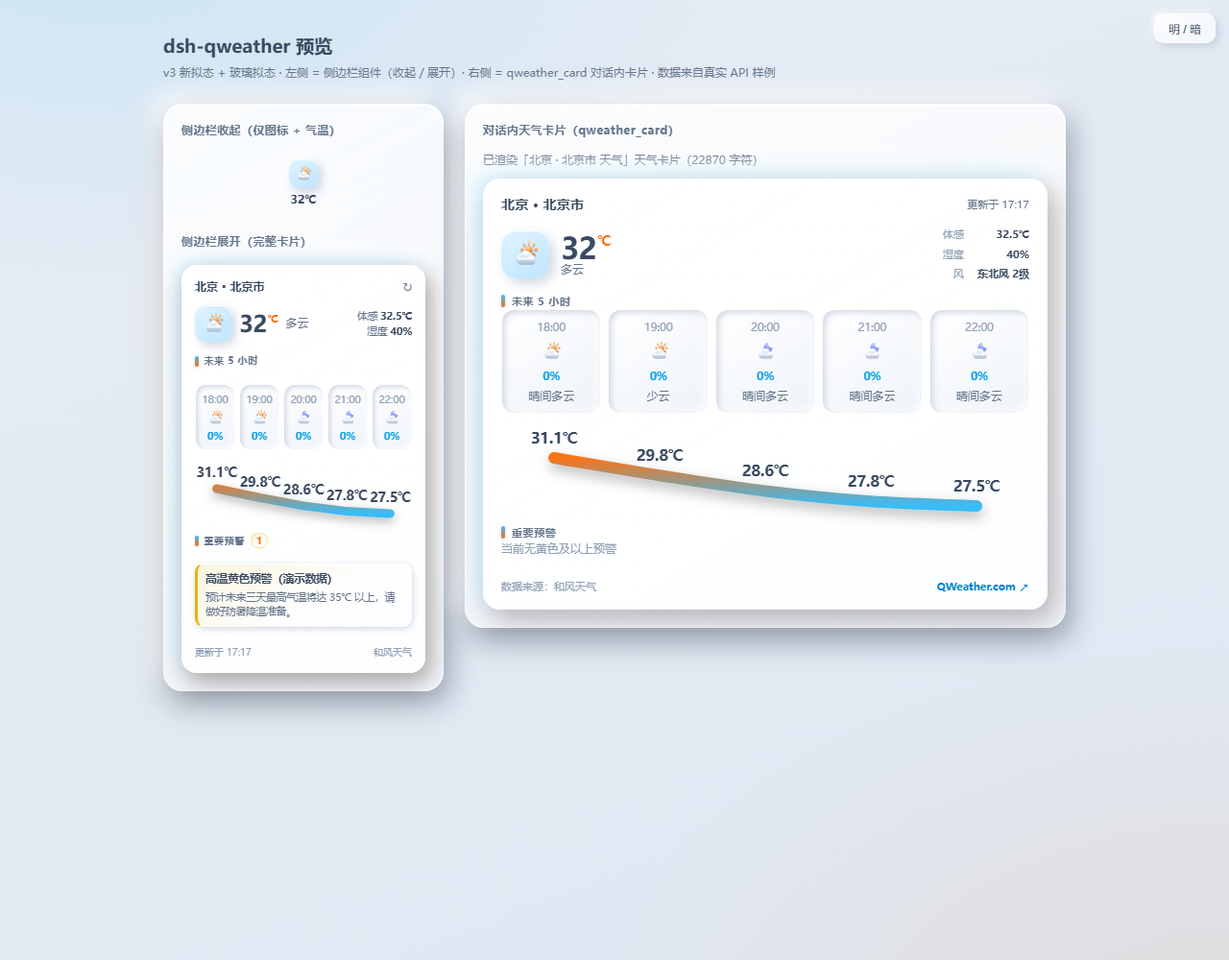
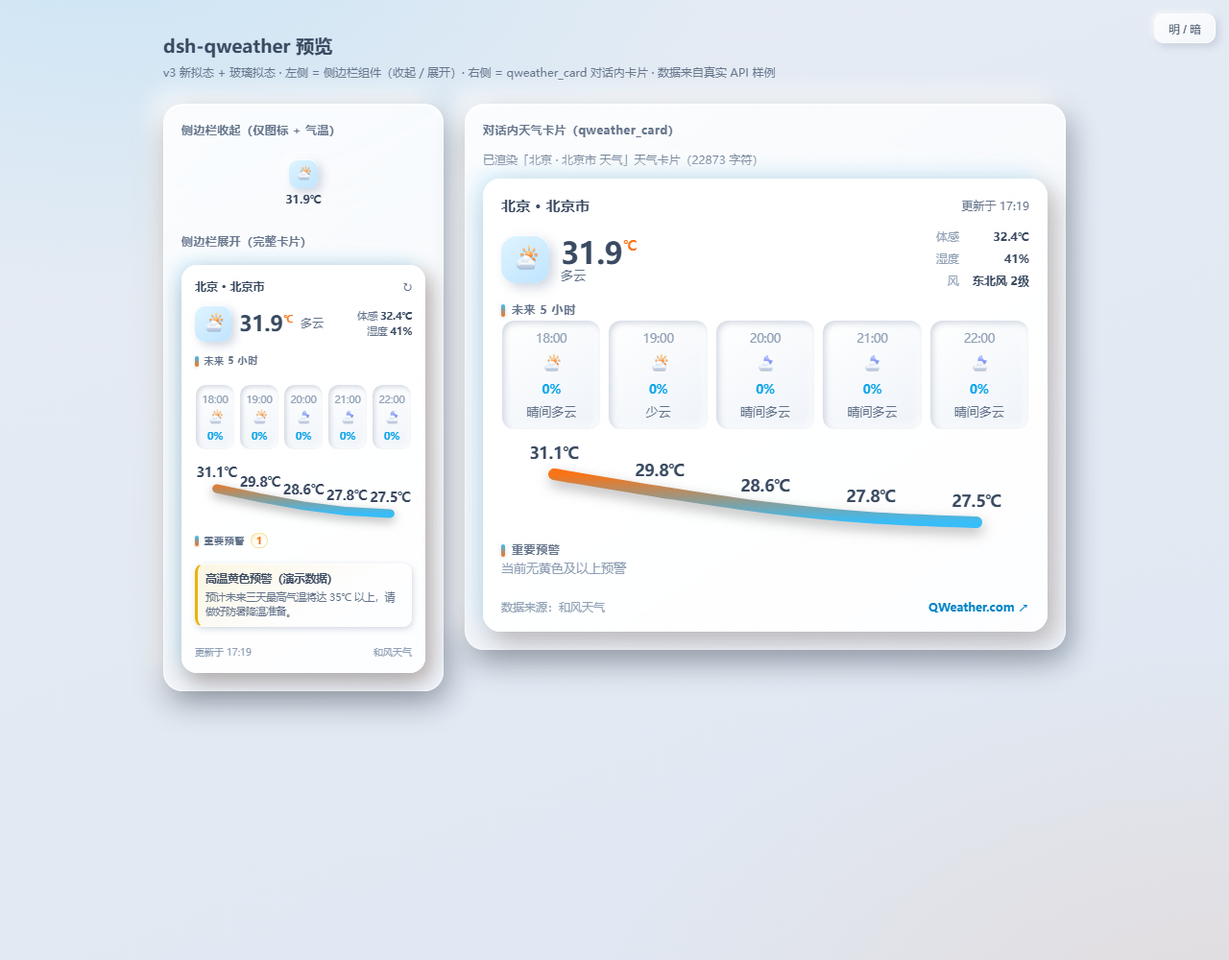
style: enlarge conversation card fonts; sidebar big temp -2px

diff --git a/preview.html b/preview.html
@@ -72,8 +72,8 @@ h1 { font-size:19px; margin:0 0 4px }
 .now .tile { flex:none; display:flex; align-items:center; justify-content:center; width:38px; height:38px; border-radius:11px;
   background:linear-gradient(145deg,var(--tile-a),var(--tile-b));
   box-shadow:4px 4px 10px var(--sh-dark),-3px -3px 8px var(--sh-light),inset 0 1px 0 var(--hi) }
-.now .t { display:flex; align-items:flex-start; gap:1px; font-size:24px; font-weight:800; letter-spacing:-.4px; line-height:1 }
-.now .t .deg { font-size:11px; color:var(--orange); margin-top:1.5px }
+.now .t { display:flex; align-items:flex-start; gap:1px; font-size:22px; font-weight:800; letter-spacing:-.4px; line-height:1 }
+.now .t .deg { font-size:10px; color:var(--orange); margin-top:1.5px }
 .now .meta { margin-left:auto; display:flex; flex-direction:column; gap:2px; color:var(--mut); font-size:10.5px; text-align:right; line-height:1.4 }
 .now .meta b { color:var(--text); font-weight:700 }
 .hours { display:grid; grid-template-columns:repeat(5,1fr); gap:4px }
@@ -118,16 +118,16 @@ body.light { --tile-a:#e0f4ff; --tile-b:#bfe4ff }
       <h2>侧边栏收起（仅图标 + 气温）</h2>
       <div class="rail">
         <span class="tile"><svg viewBox="0 0 24 24" width="18" height="18" aria-hidden="true"><defs><linearGradient id="qw-ic-pv-rail" x1="0" y1="0" x2="0" y2="1"><stop offset="0%" style="stop-color:#ffffff"/><stop offset="100%" style="stop-color:#c7d6ea"/></linearGradient></defs><g transform="translate(0,1.35)" opacity=".20"><defs><linearGradient id="qw-ic-pwpv-rail" x1="0" y1="0" x2="0" y2="1"><stop offset="0%" style="stop-color:#ffd08a"/><stop offset="100%" style="stop-color:#f97316"/></linearGradient></defs><g transform="translate(15.2,7.8) scale(0.68) translate(-12,-12)" stroke="#0b1220" data-u="pwpv-rail)" stroke-width="2.3" stroke-linecap="round"><path d="M12 2.4v2.4M12 19.2v2.4M2.4 12h2.4M19.2 12h2.4M5.2 5.2l1.7 1.7M17.1 17.1l1.7 1.7M18.8 5.2l-1.7 1.7M6.9 17.1l-1.7 1.7"/></g><circle cx="15.2" cy="7.8" r="3.06" fill="#0b1220" data-u="pwpv-rail)"/><circle cx="14.383999999999999" cy="6.984" r="1.2240000000000002" fill="#ffffff" opacity=".4"/><g transform="translate(-0.6,0.6)"><circle cx="9" cy="14.8" r="3.5" fill="#0b1220" data-u="pv-rail)"/><circle cx="13.4" cy="12.4" r="4.3" fill="#0b1220" data-u="pv-rail)"/><circle cx="17.8" cy="15.2" r="3" fill="#0b1220" data-u="pv-rail)"/><rect x="6.9" y="14.2" width="13.6" height="4.6" rx="2.3" fill="#0b1220" data-u="pv-rail)"/><rect x="6.9" y="16" width="13.6" height="2.8" rx="1.4" fill="#7d95b8" opacity=".28"/></g><circle cx="12.6" cy="11" r="1.4" fill="#ffffff" opacity=".65"/></g><defs><linearGradient id="qw-ic-pwpv-rail" x1="0" y1="0" x2="0" y2="1"><stop offset="0%" style="stop-color:#ffd08a"/><stop offset="100%" style="stop-color:#f97316"/></linearGradient></defs><g transform="translate(15.2,7.8) scale(0.68) translate(-12,-12)" stroke="url(#qw-ic-pwpv-rail)" stroke-width="2.3" stroke-linecap="round"><path d="M12 2.4v2.4M12 19.2v2.4M2.4 12h2.4M19.2 12h2.4M5.2 5.2l1.7 1.7M17.1 17.1l1.7 1.7M18.8 5.2l-1.7 1.7M6.9 17.1l-1.7 1.7"/></g><circle cx="15.2" cy="7.8" r="3.06" fill="url(#qw-ic-pwpv-rail)"/><circle cx="14.383999999999999" cy="6.984" r="1.2240000000000002" fill="#ffffff" opacity=".4"/><g transform="translate(-0.6,0.6)"><circle cx="9" cy="14.8" r="3.5" fill="url(#qw-ic-pv-rail)"/><circle cx="13.4" cy="12.4" r="4.3" fill="url(#qw-ic-pv-rail)"/><circle cx="17.8" cy="15.2" r="3" fill="url(#qw-ic-pv-rail)"/><rect x="6.9" y="14.2" width="13.6" height="4.6" rx="2.3" fill="url(#qw-ic-pv-rail)"/><rect x="6.9" y="16" width="13.6" height="2.8" rx="1.4" fill="#7d95b8" opacity=".28"/></g><circle cx="12.6" cy="11" r="1.4" fill="#ffffff" opacity=".65"/></svg></span>
-        <span class="r-temp num">32℃</span>
+        <span class="r-temp num">31.9℃</span>
       </div>
       <h2 style="margin-top:18px">侧边栏展开（完整卡片）</h2>
       <div class="card">
         <div class="head"><span>北京 · 北京市</span><span style="color:var(--mut);font-weight:400">↻</span></div>
         <div class="now">
           <span class="tile"><svg viewBox="0 0 24 24" width="24" height="24" aria-hidden="true"><defs><linearGradient id="qw-ic-pv-now" x1="0" y1="0" x2="0" y2="1"><stop offset="0%" style="stop-color:#ffffff"/><stop offset="100%" style="stop-color:#c7d6ea"/></linearGradient></defs><g transform="translate(0,1.35)" opacity=".20"><defs><linearGradient id="qw-ic-pwpv-now" x1="0" y1="0" x2="0" y2="1"><stop offset="0%" style="stop-color:#ffd08a"/><stop offset="100%" style="stop-color:#f97316"/></linearGradient></defs><g transform="translate(15.2,7.8) scale(0.68) translate(-12,-12)" stroke="#0b1220" data-u="pwpv-now)" stroke-width="2.3" stroke-linecap="round"><path d="M12 2.4v2.4M12 19.2v2.4M2.4 12h2.4M19.2 12h2.4M5.2 5.2l1.7 1.7M17.1 17.1l1.7 1.7M18.8 5.2l-1.7 1.7M6.9 17.1l-1.7 1.7"/></g><circle cx="15.2" cy="7.8" r="3.06" fill="#0b1220" data-u="pwpv-now)"/><circle cx="14.383999999999999" cy="6.984" r="1.2240000000000002" fill="#ffffff" opacity=".4"/><g transform="translate(-0.6,0.6)"><circle cx="9" cy="14.8" r="3.5" fill="#0b1220" data-u="pv-now)"/><circle cx="13.4" cy="12.4" r="4.3" fill="#0b1220" data-u="pv-now)"/><circle cx="17.8" cy="15.2" r="3" fill="#0b1220" data-u="pv-now)"/><rect x="6.9" y="14.2" width="13.6" height="4.6" rx="2.3" fill="#0b1220" data-u="pv-now)"/><rect x="6.9" y="16" width="13.6" height="2.8" rx="1.4" fill="#7d95b8" opacity=".28"/></g><circle cx="12.6" cy="11" r="1.4" fill="#ffffff" opacity=".65"/></g><defs><linearGradient id="qw-ic-pwpv-now" x1="0" y1="0" x2="0" y2="1"><stop offset="0%" style="stop-color:#ffd08a"/><stop offset="100%" style="stop-color:#f97316"/></linearGradient></defs><g transform="translate(15.2,7.8) scale(0.68) translate(-12,-12)" stroke="url(#qw-ic-pwpv-now)" stroke-width="2.3" stroke-linecap="round"><path d="M12 2.4v2.4M12 19.2v2.4M2.4 12h2.4M19.2 12h2.4M5.2 5.2l1.7 1.7M17.1 17.1l1.7 1.7M18.8 5.2l-1.7 1.7M6.9 17.1l-1.7 1.7"/></g><circle cx="15.2" cy="7.8" r="3.06" fill="url(#qw-ic-pwpv-now)"/><circle cx="14.383999999999999" cy="6.984" r="1.2240000000000002" fill="#ffffff" opacity=".4"/><g transform="translate(-0.6,0.6)"><circle cx="9" cy="14.8" r="3.5" fill="url(#qw-ic-pv-now)"/><circle cx="13.4" cy="12.4" r="4.3" fill="url(#qw-ic-pv-now)"/><circle cx="17.8" cy="15.2" r="3" fill="url(#qw-ic-pv-now)"/><rect x="6.9" y="14.2" width="13.6" height="4.6" rx="2.3" fill="url(#qw-ic-pv-now)"/><rect x="6.9" y="16" width="13.6" height="2.8" rx="1.4" fill="#7d95b8" opacity=".28"/></g><circle cx="12.6" cy="11" r="1.4" fill="#ffffff" opacity=".65"/></svg></span>
-          <span class="t num"><span>32</span><span class="deg">℃</span></span>
+          <span class="t num"><span>31.9</span><span class="deg">℃</span></span>
           <span class="mut" style="color:var(--mut);font-size:12px">多云</span>
-          <span class="meta"><span>体感 <b class="num">32.5℃</b></span><span>湿度 <b class="num">40%</b></span></span>
+          <span class="meta"><span>体感 <b class="num">32.4℃</b></span><span>湿度 <b class="num">41%</b></span></span>
         </div>
         <div class="sec">未来 5 小时</div>
         <div class="hours">
@@ -159,16 +159,16 @@ body.light { --tile-a:#e0f4ff; --tile-b:#bfe4ff }
         </div>
         <div class="curve" style="height:56px;margin-top:8px"><svg viewBox="0 0 320 56" preserveAspectRatio="none" style="display:block;width:100%;height:56px;filter:drop-shadow(0.8px 4.5px 5.5px var(--line-sh))"><defs><linearGradient id="side-stroke" gradientUnits="userSpaceOnUse" x1="0" y1="14" x2="0" y2="48"><stop offset="0%" stop-color="var(--orange)"/><stop offset="100%" stop-color="var(--sky)"/></linearGradient></defs><polyline points="32.0,22.0 96.0,31.5 160.0,39.9 224.0,45.6 288.0,48.0" style="fill:none;stroke:url(#side-stroke);stroke-width:9;stroke-linejoin:round;stroke-linecap:round;vector-effect:non-scaling-stroke"/></svg><span class="chip" style="left:10%;top:calc(39.3% - 6px)">31.1℃</span><span class="chip" style="left:30%;top:calc(56.2% - 6px)">29.8℃</span><span class="chip" style="left:50%;top:calc(71.3% - 6px)">28.6℃</span><span class="chip" style="left:70%;top:calc(81.4% - 6px)">27.8℃</span><span class="chip" style="left:90%;top:calc(85.7% - 6px)">27.5℃</span></div>
         <div class="sec">重要预警<span class="badge" style="--c:#eab308">1</span></div><div class="alert-box" style="--c:#eab308"><div class="ah">高温黄色预警（演示数据）</div><div class="ab">预计未来三天最高气温将达 35℃ 以上，请做好防暑降温准备。</div></div>
-        <div class="foot"><span>更新于 17:17</span><span>和风天气</span></div>
+        <div class="foot"><span>更新于 17:19</span><span>和风天气</span></div>
       </div>
     </div>
     <div class="panel cardpanel">
       <h2>对话内天气卡片（qweather_card）</h2>
-      <div class="tool">已渲染「北京 · 北京市 天气」天气卡片（22870 字符）</div>
+      <div class="tool">已渲染「北京 · 北京市 天气」天气卡片（22873 字符）</div>
       <div class="qw">
 <style>
 .qw,.qw *{box-sizing:border-box}
-.qw{font:13px/1.5 Inter,ui-sans-serif,system-ui,-apple-system,'Segoe UI','PingFang SC','Microsoft YaHei',sans-serif;-webkit-font-smoothing:antialiased;text-rendering:optimizeLegibility;
+.qw{font:14px/1.55 Inter,ui-sans-serif,system-ui,-apple-system,'Segoe UI','PingFang SC','Microsoft YaHei',sans-serif;-webkit-font-smoothing:antialiased;text-rendering:optimizeLegibility;
   --f:light-dark(#3a4a61,#e8eefb);
   --m:light-dark(#64748b,#9fb0c7);
   --s:light-dark(#8fa0b5,#5f7089);
@@ -196,8 +196,8 @@ body.light { --tile-a:#e0f4ff; --tile-b:#bfe4ff }
     10px 10px 24px var(--sh-dark),-10px -10px 24px var(--sh-light),
     inset 0 1px 0 light-dark(rgba(255,255,255,.9),rgba(255,255,255,.08))}
 .qw-head{display:flex;align-items:center;justify-content:space-between;gap:10px;min-width:0}
-.qw-loc{font-size:14px;font-weight:800;letter-spacing:.2px;white-space:nowrap;overflow:hidden;text-overflow:ellipsis}
-.qw-updated{flex:none;font-size:11px;color:var(--m);font-variant-numeric:tabular-nums}
+.qw-loc{font-size:15px;font-weight:800;letter-spacing:.2px;white-space:nowrap;overflow:hidden;text-overflow:ellipsis}
+.qw-updated{flex:none;font-size:12px;color:var(--m);font-variant-numeric:tabular-nums}
 .qw-now{display:flex;align-items:center;gap:12px}
 .qw-now-icon{flex:none;display:flex;align-items:center;justify-content:center;width:50px;height:50px;border-radius:16px;
   background:linear-gradient(145deg,light-dark(#e0f4ff,#1c2e4e),light-dark(#bfe4ff,#0e1a30));
@@ -206,13 +206,13 @@ body.light { --tile-a:#e0f4ff; --tile-b:#bfe4ff }
 .qw-now-temp{display:flex;align-items:flex-start;gap:1px}
 .qw-now-temp .n{font-size:31px;font-weight:800;letter-spacing:-.5px;font-variant-numeric:tabular-nums}
 .qw-now-temp .deg{font-size:14px;font-weight:800;color:var(--orange);margin-top:2.5px}
-.qw-now-text{font-size:12px;color:var(--m)}
-.qw-now-meta{margin-left:auto;display:grid;grid-template-columns:auto auto;column-gap:14px;row-gap:4px;font-size:11px;text-align:right}
+.qw-now-text{font-size:13px;color:var(--m)}
+.qw-now-meta{margin-left:auto;display:grid;grid-template-columns:auto auto;column-gap:14px;row-gap:4px;font-size:12px;text-align:right}
 .qw-now-meta .k{color:var(--s)}
 .qw-now-meta .v{color:var(--f);font-weight:700;font-variant-numeric:tabular-nums}
-.qw-sec-title{display:flex;align-items:center;gap:7px;font-size:11px;font-weight:700;letter-spacing:.6px;color:var(--m)}
+.qw-sec-title{display:flex;align-items:center;gap:7px;font-size:12px;font-weight:700;letter-spacing:.6px;color:var(--m)}
 .qw-sec-title::before{content:'';flex:none;width:4px;height:13px;border-radius:2px;background:linear-gradient(180deg,var(--sky),var(--orange));box-shadow:0 1px 4px light-dark(rgba(148,163,184,.45),rgba(0,0,0,.45))}
-.qw-badge{display:inline-flex;align-items:center;justify-content:center;min-width:19px;height:19px;padding:0 6px;border-radius:10px;color:var(--orange);font-size:10.5px;font-weight:800;font-variant-numeric:tabular-nums;
+.qw-badge{display:inline-flex;align-items:center;justify-content:center;min-width:20px;height:20px;padding:0 6px;border-radius:10px;color:var(--orange);font-size:11.5px;font-weight:800;font-variant-numeric:tabular-nums;
   background:linear-gradient(150deg,color-mix(in srgb,var(--bc,#f97316) 16%,transparent),transparent 70%);
   border:1px solid color-mix(in srgb,var(--bc,#f97316) 35%,transparent);
   box-shadow:inset 0 1px 0 light-dark(rgba(255,255,255,.7),rgba(255,255,255,.08))}
@@ -220,37 +220,37 @@ body.light { --tile-a:#e0f4ff; --tile-b:#bfe4ff }
 .qw-hr{display:flex;flex-direction:column;align-items:center;gap:3px;padding:9px 2px 8px;border-radius:13px;border:1px solid var(--bd);
   background:linear-gradient(145deg,var(--cell-a),var(--cell-b));
   box-shadow:inset 2.5px 2.5px 6px var(--sh-dark),inset -2.5px -2.5px 6px var(--sh-light)}
-.qw-hr-time{font-size:11.5px;color:var(--s);font-variant-numeric:tabular-nums}
+.qw-hr-time{font-size:12.5px;color:var(--s);font-variant-numeric:tabular-nums}
 .qw-hr-icon{display:flex;align-items:center;justify-content:center;height:28px}
-.qw-hr-pop{font-size:11.5px;color:var(--pop);font-weight:600;font-variant-numeric:tabular-nums}
-.qw-hr-text{font-size:12px;color:var(--m);max-width:100%;overflow:hidden;text-overflow:ellipsis;white-space:nowrap}
+.qw-hr-pop{font-size:12.5px;color:var(--pop);font-weight:600;font-variant-numeric:tabular-nums}
+.qw-hr-text{font-size:13px;color:var(--m);max-width:100%;overflow:hidden;text-overflow:ellipsis;white-space:nowrap}
 .qw-chart{position:relative;height:92px;margin-top:12px}
 /* 曲线投影：与图标小卡片同款的下投影（带模糊渐隐），无高光、无复制曲线 */
 .qw-chart-svg{display:block;width:100%;height:92px;filter:drop-shadow(1px 6px 7px light-dark(rgba(0,0,0,.28),rgba(0,0,0,.5)))}
 .qw-chart-line{fill:none;stroke-width:12;stroke-linecap:round;stroke-linejoin:round;vector-effect:non-scaling-stroke}
-.qw-chart-chip{position:absolute;transform:translate(-50%,-100%);font-size:15.5px;font-weight:700;color:var(--f);font-variant-numeric:tabular-nums;white-space:nowrap;text-shadow:0 1px 0 light-dark(rgba(255,255,255,.6),rgba(0,0,0,.35))}
+.qw-chart-chip{position:absolute;transform:translate(-50%,-100%);font-size:16.5px;font-weight:700;color:var(--f);font-variant-numeric:tabular-nums;white-space:nowrap;text-shadow:0 1px 0 light-dark(rgba(255,255,255,.6),rgba(0,0,0,.35))}
 .qw-alert{display:flex;flex-direction:column;gap:3px;padding:9px 12px;border-radius:12px;border:1px solid var(--bd);border-left:3px solid var(--alert-c,#f59e0b);
   background:linear-gradient(150deg,color-mix(in srgb,var(--alert-c,#f59e0b) 12%,transparent),transparent 60%);
   box-shadow:2px 3px 8px var(--sh-dark),inset 0 1px 0 light-dark(rgba(255,255,255,.75),rgba(255,255,255,.06))}
-.qw-alert-head{font-size:12.5px;font-weight:700;color:var(--f)}
-.qw-alert-body{font-size:11.5px;color:var(--m);line-height:1.55}
-.qw-empty{font-size:12px;color:var(--s)}
-.qw-foot{display:flex;align-items:center;justify-content:space-between;gap:10px;padding-top:9px;border-top:1px dashed var(--bd);font-size:11px;color:var(--s)}
+.qw-alert-head{font-size:13.5px;font-weight:700;color:var(--f)}
+.qw-alert-body{font-size:12.5px;color:var(--m);line-height:1.55}
+.qw-empty{font-size:13px;color:var(--s)}
+.qw-foot{display:flex;align-items:center;justify-content:space-between;gap:10px;padding-top:9px;border-top:1px dashed var(--bd);font-size:12px;color:var(--s)}
 .qw-foot a{color:var(--sky-deep);text-decoration:none;font-weight:700}
 .qw-foot a:hover{color:var(--orange);text-decoration:underline}
 </style>
 <div class="qw-card">
 <div class="qw-head">
 <span class="qw-loc" title="北京 · 北京市">北京 · 北京市</span>
-<span class="qw-updated">更新于 17:17</span>
+<span class="qw-updated">更新于 17:19</span>
 </div>
 <div class="qw-now">
 <span class="qw-now-icon"><svg viewBox="0 0 24 24" width="30" height="30" aria-hidden="true"><defs><linearGradient id="qw-ic-now" x1="0" y1="0" x2="0" y2="1"><stop offset="0%" style="stop-color:#ffffff"/><stop offset="100%" style="stop-color:#c7d6ea"/></linearGradient></defs><g transform="translate(0,1.35)" opacity=".20"><defs><linearGradient id="qw-ic-pwnow" x1="0" y1="0" x2="0" y2="1"><stop offset="0%" style="stop-color:#ffd08a"/><stop offset="100%" style="stop-color:#f97316"/></linearGradient></defs><g transform="translate(15.2,7.8) scale(0.68) translate(-12,-12)" stroke="#0b1220" data-u="pwnow)" stroke-width="2.3" stroke-linecap="round"><path d="M12 2.4v2.4M12 19.2v2.4M2.4 12h2.4M19.2 12h2.4M5.2 5.2l1.7 1.7M17.1 17.1l1.7 1.7M18.8 5.2l-1.7 1.7M6.9 17.1l-1.7 1.7"/></g><circle cx="15.2" cy="7.8" r="3.06" fill="#0b1220" data-u="pwnow)"/><circle cx="14.383999999999999" cy="6.984" r="1.2240000000000002" fill="#ffffff" opacity=".4"/><g transform="translate(-0.6,0.6)"><circle cx="9" cy="14.8" r="3.5" fill="#0b1220" data-u="now)"/><circle cx="13.4" cy="12.4" r="4.3" fill="#0b1220" data-u="now)"/><circle cx="17.8" cy="15.2" r="3" fill="#0b1220" data-u="now)"/><rect x="6.9" y="14.2" width="13.6" height="4.6" rx="2.3" fill="#0b1220" data-u="now)"/><rect x="6.9" y="16" width="13.6" height="2.8" rx="1.4" fill="#7d95b8" opacity=".28"/></g><circle cx="12.6" cy="11" r="1.4" fill="#ffffff" opacity=".65"/></g><defs><linearGradient id="qw-ic-pwnow" x1="0" y1="0" x2="0" y2="1"><stop offset="0%" style="stop-color:#ffd08a"/><stop offset="100%" style="stop-color:#f97316"/></linearGradient></defs><g transform="translate(15.2,7.8) scale(0.68) translate(-12,-12)" stroke="url(#qw-ic-pwnow)" stroke-width="2.3" stroke-linecap="round"><path d="M12 2.4v2.4M12 19.2v2.4M2.4 12h2.4M19.2 12h2.4M5.2 5.2l1.7 1.7M17.1 17.1l1.7 1.7M18.8 5.2l-1.7 1.7M6.9 17.1l-1.7 1.7"/></g><circle cx="15.2" cy="7.8" r="3.06" fill="url(#qw-ic-pwnow)"/><circle cx="14.383999999999999" cy="6.984" r="1.2240000000000002" fill="#ffffff" opacity=".4"/><g transform="translate(-0.6,0.6)"><circle cx="9" cy="14.8" r="3.5" fill="url(#qw-ic-now)"/><circle cx="13.4" cy="12.4" r="4.3" fill="url(#qw-ic-now)"/><circle cx="17.8" cy="15.2" r="3" fill="url(#qw-ic-now)"/><rect x="6.9" y="14.2" width="13.6" height="4.6" rx="2.3" fill="url(#qw-ic-now)"/><rect x="6.9" y="16" width="13.6" height="2.8" rx="1.4" fill="#7d95b8" opacity=".28"/></g><circle cx="12.6" cy="11" r="1.4" fill="#ffffff" opacity=".65"/></svg></span>
 <div class="qw-now-main">
-<span class="qw-now-temp"><span class="n">32</span><span class="deg">℃</span></span>
+<span class="qw-now-temp"><span class="n">31.9</span><span class="deg">℃</span></span>
 <span class="qw-now-text">多云</span>
 </div>
-<div class="qw-now-meta"><span class="k">体感</span><span class="v">32.5℃</span><span class="k">湿度</span><span class="v">40%</span><span class="k">风</span><span class="v">东北风 2级</span></div>
+<div class="qw-now-meta"><span class="k">体感</span><span class="v">32.4℃</span><span class="k">湿度</span><span class="v">41%</span><span class="k">风</span><span class="v">东北风 2级</span></div>
 </div>
 <div>
 <div class="qw-sec-title">未来 5 小时</div>

diff --git a/samples/sample-card.html b/samples/sample-card.html
@@ -1,7 +1,7 @@
 <div class="qw">
 <style>
 .qw,.qw *{box-sizing:border-box}
-.qw{font:13px/1.5 Inter,ui-sans-serif,system-ui,-apple-system,'Segoe UI','PingFang SC','Microsoft YaHei',sans-serif;-webkit-font-smoothing:antialiased;text-rendering:optimizeLegibility;
+.qw{font:14px/1.55 Inter,ui-sans-serif,system-ui,-apple-system,'Segoe UI','PingFang SC','Microsoft YaHei',sans-serif;-webkit-font-smoothing:antialiased;text-rendering:optimizeLegibility;
   --f:light-dark(#3a4a61,#e8eefb);
   --m:light-dark(#64748b,#9fb0c7);
   --s:light-dark(#8fa0b5,#5f7089);
@@ -29,8 +29,8 @@
     10px 10px 24px var(--sh-dark),-10px -10px 24px var(--sh-light),
     inset 0 1px 0 light-dark(rgba(255,255,255,.9),rgba(255,255,255,.08))}
 .qw-head{display:flex;align-items:center;justify-content:space-between;gap:10px;min-width:0}
-.qw-loc{font-size:14px;font-weight:800;letter-spacing:.2px;white-space:nowrap;overflow:hidden;text-overflow:ellipsis}
-.qw-updated{flex:none;font-size:11px;color:var(--m);font-variant-numeric:tabular-nums}
+.qw-loc{font-size:15px;font-weight:800;letter-spacing:.2px;white-space:nowrap;overflow:hidden;text-overflow:ellipsis}
+.qw-updated{flex:none;font-size:12px;color:var(--m);font-variant-numeric:tabular-nums}
 .qw-now{display:flex;align-items:center;gap:12px}
 .qw-now-icon{flex:none;display:flex;align-items:center;justify-content:center;width:50px;height:50px;border-radius:16px;
   background:linear-gradient(145deg,light-dark(#e0f4ff,#1c2e4e),light-dark(#bfe4ff,#0e1a30));
@@ -39,13 +39,13 @@
 .qw-now-temp{display:flex;align-items:flex-start;gap:1px}
 .qw-now-temp .n{font-size:31px;font-weight:800;letter-spacing:-.5px;font-variant-numeric:tabular-nums}
 .qw-now-temp .deg{font-size:14px;font-weight:800;color:var(--orange);margin-top:2.5px}
-.qw-now-text{font-size:12px;color:var(--m)}
-.qw-now-meta{margin-left:auto;display:grid;grid-template-columns:auto auto;column-gap:14px;row-gap:4px;font-size:11px;text-align:right}
+.qw-now-text{font-size:13px;color:var(--m)}
+.qw-now-meta{margin-left:auto;display:grid;grid-template-columns:auto auto;column-gap:14px;row-gap:4px;font-size:12px;text-align:right}
 .qw-now-meta .k{color:var(--s)}
 .qw-now-meta .v{color:var(--f);font-weight:700;font-variant-numeric:tabular-nums}
-.qw-sec-title{display:flex;align-items:center;gap:7px;font-size:11px;font-weight:700;letter-spacing:.6px;color:var(--m)}
+.qw-sec-title{display:flex;align-items:center;gap:7px;font-size:12px;font-weight:700;letter-spacing:.6px;color:var(--m)}
 .qw-sec-title::before{content:'';flex:none;width:4px;height:13px;border-radius:2px;background:linear-gradient(180deg,var(--sky),var(--orange));box-shadow:0 1px 4px light-dark(rgba(148,163,184,.45),rgba(0,0,0,.45))}
-.qw-badge{display:inline-flex;align-items:center;justify-content:center;min-width:19px;height:19px;padding:0 6px;border-radius:10px;color:var(--orange);font-size:10.5px;font-weight:800;font-variant-numeric:tabular-nums;
+.qw-badge{display:inline-flex;align-items:center;justify-content:center;min-width:20px;height:20px;padding:0 6px;border-radius:10px;color:var(--orange);font-size:11.5px;font-weight:800;font-variant-numeric:tabular-nums;
   background:linear-gradient(150deg,color-mix(in srgb,var(--bc,#f97316) 16%,transparent),transparent 70%);
   border:1px solid color-mix(in srgb,var(--bc,#f97316) 35%,transparent);
   box-shadow:inset 0 1px 0 light-dark(rgba(255,255,255,.7),rgba(255,255,255,.08))}
@@ -53,37 +53,37 @@
 .qw-hr{display:flex;flex-direction:column;align-items:center;gap:3px;padding:9px 2px 8px;border-radius:13px;border:1px solid var(--bd);
   background:linear-gradient(145deg,var(--cell-a),var(--cell-b));
   box-shadow:inset 2.5px 2.5px 6px var(--sh-dark),inset -2.5px -2.5px 6px var(--sh-light)}
-.qw-hr-time{font-size:11.5px;color:var(--s);font-variant-numeric:tabular-nums}
+.qw-hr-time{font-size:12.5px;color:var(--s);font-variant-numeric:tabular-nums}
 .qw-hr-icon{display:flex;align-items:center;justify-content:center;height:28px}
-.qw-hr-pop{font-size:11.5px;color:var(--pop);font-weight:600;font-variant-numeric:tabular-nums}
-.qw-hr-text{font-size:12px;color:var(--m);max-width:100%;overflow:hidden;text-overflow:ellipsis;white-space:nowrap}
+.qw-hr-pop{font-size:12.5px;color:var(--pop);font-weight:600;font-variant-numeric:tabular-nums}
+.qw-hr-text{font-size:13px;color:var(--m);max-width:100%;overflow:hidden;text-overflow:ellipsis;white-space:nowrap}
 .qw-chart{position:relative;height:92px;margin-top:12px}
 /* 曲线投影：与图标小卡片同款的下投影（带模糊渐隐），无高光、无复制曲线 */
 .qw-chart-svg{display:block;width:100%;height:92px;filter:drop-shadow(1px 6px 7px light-dark(rgba(0,0,0,.28),rgba(0,0,0,.5)))}
 .qw-chart-line{fill:none;stroke-width:12;stroke-linecap:round;stroke-linejoin:round;vector-effect:non-scaling-stroke}
-.qw-chart-chip{position:absolute;transform:translate(-50%,-100%);font-size:15.5px;font-weight:700;color:var(--f);font-variant-numeric:tabular-nums;white-space:nowrap;text-shadow:0 1px 0 light-dark(rgba(255,255,255,.6),rgba(0,0,0,.35))}
+.qw-chart-chip{position:absolute;transform:translate(-50%,-100%);font-size:16.5px;font-weight:700;color:var(--f);font-variant-numeric:tabular-nums;white-space:nowrap;text-shadow:0 1px 0 light-dark(rgba(255,255,255,.6),rgba(0,0,0,.35))}
 .qw-alert{display:flex;flex-direction:column;gap:3px;padding:9px 12px;border-radius:12px;border:1px solid var(--bd);border-left:3px solid var(--alert-c,#f59e0b);
   background:linear-gradient(150deg,color-mix(in srgb,var(--alert-c,#f59e0b) 12%,transparent),transparent 60%);
   box-shadow:2px 3px 8px var(--sh-dark),inset 0 1px 0 light-dark(rgba(255,255,255,.75),rgba(255,255,255,.06))}
-.qw-alert-head{font-size:12.5px;font-weight:700;color:var(--f)}
-.qw-alert-body{font-size:11.5px;color:var(--m);line-height:1.55}
-.qw-empty{font-size:12px;color:var(--s)}
-.qw-foot{display:flex;align-items:center;justify-content:space-between;gap:10px;padding-top:9px;border-top:1px dashed var(--bd);font-size:11px;color:var(--s)}
+.qw-alert-head{font-size:13.5px;font-weight:700;color:var(--f)}
+.qw-alert-body{font-size:12.5px;color:var(--m);line-height:1.55}
+.qw-empty{font-size:13px;color:var(--s)}
+.qw-foot{display:flex;align-items:center;justify-content:space-between;gap:10px;padding-top:9px;border-top:1px dashed var(--bd);font-size:12px;color:var(--s)}
 .qw-foot a{color:var(--sky-deep);text-decoration:none;font-weight:700}
 .qw-foot a:hover{color:var(--orange);text-decoration:underline}
 </style>
 <div class="qw-card">
 <div class="qw-head">
 <span class="qw-loc" title="北京 · 北京市">北京 · 北京市</span>
-<span class="qw-updated">更新于 17:17</span>
+<span class="qw-updated">更新于 17:19</span>
 </div>
 <div class="qw-now">
 <span class="qw-now-icon"><svg viewBox="0 0 24 24" width="30" height="30" aria-hidden="true"><defs><linearGradient id="qw-ic-now" x1="0" y1="0" x2="0" y2="1"><stop offset="0%" style="stop-color:#ffffff"/><stop offset="100%" style="stop-color:#c7d6ea"/></linearGradient></defs><g transform="translate(0,1.35)" opacity=".20"><defs><linearGradient id="qw-ic-pwnow" x1="0" y1="0" x2="0" y2="1"><stop offset="0%" style="stop-color:#ffd08a"/><stop offset="100%" style="stop-color:#f97316"/></linearGradient></defs><g transform="translate(15.2,7.8) scale(0.68) translate(-12,-12)" stroke="#0b1220" data-u="pwnow)" stroke-width="2.3" stroke-linecap="round"><path d="M12 2.4v2.4M12 19.2v2.4M2.4 12h2.4M19.2 12h2.4M5.2 5.2l1.7 1.7M17.1 17.1l1.7 1.7M18.8 5.2l-1.7 1.7M6.9 17.1l-1.7 1.7"/></g><circle cx="15.2" cy="7.8" r="3.06" fill="#0b1220" data-u="pwnow)"/><circle cx="14.383999999999999" cy="6.984" r="1.2240000000000002" fill="#ffffff" opacity=".4"/><g transform="translate(-0.6,0.6)"><circle cx="9" cy="14.8" r="3.5" fill="#0b1220" data-u="now)"/><circle cx="13.4" cy="12.4" r="4.3" fill="#0b1220" data-u="now)"/><circle cx="17.8" cy="15.2" r="3" fill="#0b1220" data-u="now)"/><rect x="6.9" y="14.2" width="13.6" height="4.6" rx="2.3" fill="#0b1220" data-u="now)"/><rect x="6.9" y="16" width="13.6" height="2.8" rx="1.4" fill="#7d95b8" opacity=".28"/></g><circle cx="12.6" cy="11" r="1.4" fill="#ffffff" opacity=".65"/></g><defs><linearGradient id="qw-ic-pwnow" x1="0" y1="0" x2="0" y2="1"><stop offset="0%" style="stop-color:#ffd08a"/><stop offset="100%" style="stop-color:#f97316"/></linearGradient></defs><g transform="translate(15.2,7.8) scale(0.68) translate(-12,-12)" stroke="url(#qw-ic-pwnow)" stroke-width="2.3" stroke-linecap="round"><path d="M12 2.4v2.4M12 19.2v2.4M2.4 12h2.4M19.2 12h2.4M5.2 5.2l1.7 1.7M17.1 17.1l1.7 1.7M18.8 5.2l-1.7 1.7M6.9 17.1l-1.7 1.7"/></g><circle cx="15.2" cy="7.8" r="3.06" fill="url(#qw-ic-pwnow)"/><circle cx="14.383999999999999" cy="6.984" r="1.2240000000000002" fill="#ffffff" opacity=".4"/><g transform="translate(-0.6,0.6)"><circle cx="9" cy="14.8" r="3.5" fill="url(#qw-ic-now)"/><circle cx="13.4" cy="12.4" r="4.3" fill="url(#qw-ic-now)"/><circle cx="17.8" cy="15.2" r="3" fill="url(#qw-ic-now)"/><rect x="6.9" y="14.2" width="13.6" height="4.6" rx="2.3" fill="url(#qw-ic-now)"/><rect x="6.9" y="16" width="13.6" height="2.8" rx="1.4" fill="#7d95b8" opacity=".28"/></g><circle cx="12.6" cy="11" r="1.4" fill="#ffffff" opacity=".65"/></svg></span>
 <div class="qw-now-main">
-<span class="qw-now-temp"><span class="n">32</span><span class="deg">℃</span></span>
+<span class="qw-now-temp"><span class="n">31.9</span><span class="deg">℃</span></span>
 <span class="qw-now-text">多云</span>
 </div>
-<div class="qw-now-meta"><span class="k">体感</span><span class="v">32.5℃</span><span class="k">湿度</span><span class="v">40%</span><span class="k">风</span><span class="v">东北风 2级</span></div>
+<div class="qw-now-meta"><span class="k">体感</span><span class="v">32.4℃</span><span class="k">湿度</span><span class="v">41%</span><span class="k">风</span><span class="v">东北风 2级</span></div>
 </div>
 <div>
 <div class="qw-sec-title">未来 5 小时</div>

diff --git a/src/qweather/card.ts b/src/qweather/card.ts
@@ -18,7 +18,7 @@ import { weatherIcon } from './icons.ts'
 /** 卡片样式表（fragment 必须内联带上，否则 SVG 落入默认黑色填充）。 */
 const CARD_CSS = `
 .qw,.qw *{box-sizing:border-box}
-.qw{font:13px/1.5 Inter,ui-sans-serif,system-ui,-apple-system,'Segoe UI','PingFang SC','Microsoft YaHei',sans-serif;-webkit-font-smoothing:antialiased;text-rendering:optimizeLegibility;
+.qw{font:14px/1.55 Inter,ui-sans-serif,system-ui,-apple-system,'Segoe UI','PingFang SC','Microsoft YaHei',sans-serif;-webkit-font-smoothing:antialiased;text-rendering:optimizeLegibility;
   --f:light-dark(#3a4a61,#e8eefb);
   --m:light-dark(#64748b,#9fb0c7);
   --s:light-dark(#8fa0b5,#5f7089);
@@ -46,8 +46,8 @@ const CARD_CSS = `
     10px 10px 24px var(--sh-dark),-10px -10px 24px var(--sh-light),
     inset 0 1px 0 light-dark(rgba(255,255,255,.9),rgba(255,255,255,.08))}
 .qw-head{display:flex;align-items:center;justify-content:space-between;gap:10px;min-width:0}
-.qw-loc{font-size:14px;font-weight:800;letter-spacing:.2px;white-space:nowrap;overflow:hidden;text-overflow:ellipsis}
-.qw-updated{flex:none;font-size:11px;color:var(--m);font-variant-numeric:tabular-nums}
+.qw-loc{font-size:15px;font-weight:800;letter-spacing:.2px;white-space:nowrap;overflow:hidden;text-overflow:ellipsis}
+.qw-updated{flex:none;font-size:12px;color:var(--m);font-variant-numeric:tabular-nums}
 .qw-now{display:flex;align-items:center;gap:12px}
 .qw-now-icon{flex:none;display:flex;align-items:center;justify-content:center;width:50px;height:50px;border-radius:16px;
   background:linear-gradient(145deg,light-dark(#e0f4ff,#1c2e4e),light-dark(#bfe4ff,#0e1a30));
@@ -56,13 +56,13 @@ const CARD_CSS = `
 .qw-now-temp{display:flex;align-items:flex-start;gap:1px}
 .qw-now-temp .n{font-size:31px;font-weight:800;letter-spacing:-.5px;font-variant-numeric:tabular-nums}
 .qw-now-temp .deg{font-size:14px;font-weight:800;color:var(--orange);margin-top:2.5px}
-.qw-now-text{font-size:12px;color:var(--m)}
-.qw-now-meta{margin-left:auto;display:grid;grid-template-columns:auto auto;column-gap:14px;row-gap:4px;font-size:11px;text-align:right}
+.qw-now-text{font-size:13px;color:var(--m)}
+.qw-now-meta{margin-left:auto;display:grid;grid-template-columns:auto auto;column-gap:14px;row-gap:4px;font-size:12px;text-align:right}
 .qw-now-meta .k{color:var(--s)}
 .qw-now-meta .v{color:var(--f);font-weight:700;font-variant-numeric:tabular-nums}
-.qw-sec-title{display:flex;align-items:center;gap:7px;font-size:11px;font-weight:700;letter-spacing:.6px;color:var(--m)}
+.qw-sec-title{display:flex;align-items:center;gap:7px;font-size:12px;font-weight:700;letter-spacing:.6px;color:var(--m)}
 .qw-sec-title::before{content:'';flex:none;width:4px;height:13px;border-radius:2px;background:linear-gradient(180deg,var(--sky),var(--orange));box-shadow:0 1px 4px light-dark(rgba(148,163,184,.45),rgba(0,0,0,.45))}
-.qw-badge{display:inline-flex;align-items:center;justify-content:center;min-width:19px;height:19px;padding:0 6px;border-radius:10px;color:var(--orange);font-size:10.5px;font-weight:800;font-variant-numeric:tabular-nums;
+.qw-badge{display:inline-flex;align-items:center;justify-content:center;min-width:20px;height:20px;padding:0 6px;border-radius:10px;color:var(--orange);font-size:11.5px;font-weight:800;font-variant-numeric:tabular-nums;
   background:linear-gradient(150deg,color-mix(in srgb,var(--bc,#f97316) 16%,transparent),transparent 70%);
   border:1px solid color-mix(in srgb,var(--bc,#f97316) 35%,transparent);
   box-shadow:inset 0 1px 0 light-dark(rgba(255,255,255,.7),rgba(255,255,255,.08))}
@@ -70,22 +70,22 @@ const CARD_CSS = `
 .qw-hr{display:flex;flex-direction:column;align-items:center;gap:3px;padding:9px 2px 8px;border-radius:13px;border:1px solid var(--bd);
   background:linear-gradient(145deg,var(--cell-a),var(--cell-b));
   box-shadow:inset 2.5px 2.5px 6px var(--sh-dark),inset -2.5px -2.5px 6px var(--sh-light)}
-.qw-hr-time{font-size:11.5px;color:var(--s);font-variant-numeric:tabular-nums}
+.qw-hr-time{font-size:12.5px;color:var(--s);font-variant-numeric:tabular-nums}
 .qw-hr-icon{display:flex;align-items:center;justify-content:center;height:28px}
-.qw-hr-pop{font-size:11.5px;color:var(--pop);font-weight:600;font-variant-numeric:tabular-nums}
-.qw-hr-text{font-size:12px;color:var(--m);max-width:100%;overflow:hidden;text-overflow:ellipsis;white-space:nowrap}
+.qw-hr-pop{font-size:12.5px;color:var(--pop);font-weight:600;font-variant-numeric:tabular-nums}
+.qw-hr-text{font-size:13px;color:var(--m);max-width:100%;overflow:hidden;text-overflow:ellipsis;white-space:nowrap}
 .qw-chart{position:relative;height:92px;margin-top:12px}
 /* 曲线投影：与图标小卡片同款的下投影（带模糊渐隐），无高光、无复制曲线 */
 .qw-chart-svg{display:block;width:100%;height:92px;filter:drop-shadow(1px 6px 7px light-dark(rgba(0,0,0,.28),rgba(0,0,0,.5)))}
 .qw-chart-line{fill:none;stroke-width:12;stroke-linecap:round;stroke-linejoin:round;vector-effect:non-scaling-stroke}
-.qw-chart-chip{position:absolute;transform:translate(-50%,-100%);font-size:15.5px;font-weight:700;color:var(--f);font-variant-numeric:tabular-nums;white-space:nowrap;text-shadow:0 1px 0 light-dark(rgba(255,255,255,.6),rgba(0,0,0,.35))}
+.qw-chart-chip{position:absolute;transform:translate(-50%,-100%);font-size:16.5px;font-weight:700;color:var(--f);font-variant-numeric:tabular-nums;white-space:nowrap;text-shadow:0 1px 0 light-dark(rgba(255,255,255,.6),rgba(0,0,0,.35))}
 .qw-alert{display:flex;flex-direction:column;gap:3px;padding:9px 12px;border-radius:12px;border:1px solid var(--bd);border-left:3px solid var(--alert-c,#f59e0b);
   background:linear-gradient(150deg,color-mix(in srgb,var(--alert-c,#f59e0b) 12%,transparent),transparent 60%);
   box-shadow:2px 3px 8px var(--sh-dark),inset 0 1px 0 light-dark(rgba(255,255,255,.75),rgba(255,255,255,.06))}
-.qw-alert-head{font-size:12.5px;font-weight:700;color:var(--f)}
-.qw-alert-body{font-size:11.5px;color:var(--m);line-height:1.55}
-.qw-empty{font-size:12px;color:var(--s)}
-.qw-foot{display:flex;align-items:center;justify-content:space-between;gap:10px;padding-top:9px;border-top:1px dashed var(--bd);font-size:11px;color:var(--s)}
+.qw-alert-head{font-size:13.5px;font-weight:700;color:var(--f)}
+.qw-alert-body{font-size:12.5px;color:var(--m);line-height:1.55}
+.qw-empty{font-size:13px;color:var(--s)}
+.qw-foot{display:flex;align-items:center;justify-content:space-between;gap:10px;padding-top:9px;border-top:1px dashed var(--bd);font-size:12px;color:var(--s)}
 .qw-foot a{color:var(--sky-deep);text-decoration:none;font-weight:700}
 .qw-foot a:hover{color:var(--orange);text-decoration:underline}
 `

diff --git a/lib/index.js b/lib/index.js
@@ -587,7 +587,7 @@ function iconKindOf(code) {
 /** 卡片样式表（fragment 必须内联带上，否则 SVG 落入默认黑色填充）。 */
 const CARD_CSS = `
 .qw,.qw *{box-sizing:border-box}
-.qw{font:13px/1.5 Inter,ui-sans-serif,system-ui,-apple-system,'Segoe UI','PingFang SC','Microsoft YaHei',sans-serif;-webkit-font-smoothing:antialiased;text-rendering:optimizeLegibility;
+.qw{font:14px/1.55 Inter,ui-sans-serif,system-ui,-apple-system,'Segoe UI','PingFang SC','Microsoft YaHei',sans-serif;-webkit-font-smoothing:antialiased;text-rendering:optimizeLegibility;
   --f:light-dark(#3a4a61,#e8eefb);
   --m:light-dark(#64748b,#9fb0c7);
   --s:light-dark(#8fa0b5,#5f7089);
@@ -615,8 +615,8 @@ const CARD_CSS = `
     10px 10px 24px var(--sh-dark),-10px -10px 24px var(--sh-light),
     inset 0 1px 0 light-dark(rgba(255,255,255,.9),rgba(255,255,255,.08))}
 .qw-head{display:flex;align-items:center;justify-content:space-between;gap:10px;min-width:0}
-.qw-loc{font-size:14px;font-weight:800;letter-spacing:.2px;white-space:nowrap;overflow:hidden;text-overflow:ellipsis}
-.qw-updated{flex:none;font-size:11px;color:var(--m);font-variant-numeric:tabular-nums}
+.qw-loc{font-size:15px;font-weight:800;letter-spacing:.2px;white-space:nowrap;overflow:hidden;text-overflow:ellipsis}
+.qw-updated{flex:none;font-size:12px;color:var(--m);font-variant-numeric:tabular-nums}
 .qw-now{display:flex;align-items:center;gap:12px}
 .qw-now-icon{flex:none;display:flex;align-items:center;justify-content:center;width:50px;height:50px;border-radius:16px;
   background:linear-gradient(145deg,light-dark(#e0f4ff,#1c2e4e),light-dark(#bfe4ff,#0e1a30));
@@ -625,13 +625,13 @@ const CARD_CSS = `
 .qw-now-temp{display:flex;align-items:flex-start;gap:1px}
 .qw-now-temp .n{font-size:31px;font-weight:800;letter-spacing:-.5px;font-variant-numeric:tabular-nums}
 .qw-now-temp .deg{font-size:14px;font-weight:800;color:var(--orange);margin-top:2.5px}
-.qw-now-text{font-size:12px;color:var(--m)}
-.qw-now-meta{margin-left:auto;display:grid;grid-template-columns:auto auto;column-gap:14px;row-gap:4px;font-size:11px;text-align:right}
+.qw-now-text{font-size:13px;color:var(--m)}
+.qw-now-meta{margin-left:auto;display:grid;grid-template-columns:auto auto;column-gap:14px;row-gap:4px;font-size:12px;text-align:right}
 .qw-now-meta .k{color:var(--s)}
 .qw-now-meta .v{color:var(--f);font-weight:700;font-variant-numeric:tabular-nums}
-.qw-sec-title{display:flex;align-items:center;gap:7px;font-size:11px;font-weight:700;letter-spacing:.6px;color:var(--m)}
+.qw-sec-title{display:flex;align-items:center;gap:7px;font-size:12px;font-weight:700;letter-spacing:.6px;color:var(--m)}
 .qw-sec-title::before{content:'';flex:none;width:4px;height:13px;border-radius:2px;background:linear-gradient(180deg,var(--sky),var(--orange));box-shadow:0 1px 4px light-dark(rgba(148,163,184,.45),rgba(0,0,0,.45))}
-.qw-badge{display:inline-flex;align-items:center;justify-content:center;min-width:19px;height:19px;padding:0 6px;border-radius:10px;color:var(--orange);font-size:10.5px;font-weight:800;font-variant-numeric:tabular-nums;
+.qw-badge{display:inline-flex;align-items:center;justify-content:center;min-width:20px;height:20px;padding:0 6px;border-radius:10px;color:var(--orange);font-size:11.5px;font-weight:800;font-variant-numeric:tabular-nums;
   background:linear-gradient(150deg,color-mix(in srgb,var(--bc,#f97316) 16%,transparent),transparent 70%);
   border:1px solid color-mix(in srgb,var(--bc,#f97316) 35%,transparent);
   box-shadow:inset 0 1px 0 light-dark(rgba(255,255,255,.7),rgba(255,255,255,.08))}
@@ -639,22 +639,22 @@ const CARD_CSS = `
 .qw-hr{display:flex;flex-direction:column;align-items:center;gap:3px;padding:9px 2px 8px;border-radius:13px;border:1px solid var(--bd);
   background:linear-gradient(145deg,var(--cell-a),var(--cell-b));
   box-shadow:inset 2.5px 2.5px 6px var(--sh-dark),inset -2.5px -2.5px 6px var(--sh-light)}
-.qw-hr-time{font-size:11.5px;color:var(--s);font-variant-numeric:tabular-nums}
+.qw-hr-time{font-size:12.5px;color:var(--s);font-variant-numeric:tabular-nums}
 .qw-hr-icon{display:flex;align-items:center;justify-content:center;height:28px}
-.qw-hr-pop{font-size:11.5px;color:var(--pop);font-weight:600;font-variant-numeric:tabular-nums}
-.qw-hr-text{font-size:12px;color:var(--m);max-width:100%;overflow:hidden;text-overflow:ellipsis;white-space:nowrap}
+.qw-hr-pop{font-size:12.5px;color:var(--pop);font-weight:600;font-variant-numeric:tabular-nums}
+.qw-hr-text{font-size:13px;color:var(--m);max-width:100%;overflow:hidden;text-overflow:ellipsis;white-space:nowrap}
 .qw-chart{position:relative;height:92px;margin-top:12px}
 /* 曲线投影：与图标小卡片同款的下投影（带模糊渐隐），无高光、无复制曲线 */
 .qw-chart-svg{display:block;width:100%;height:92px;filter:drop-shadow(1px 6px 7px light-dark(rgba(0,0,0,.28),rgba(0,0,0,.5)))}
 .qw-chart-line{fill:none;stroke-width:12;stroke-linecap:round;stroke-linejoin:round;vector-effect:non-scaling-stroke}
-.qw-chart-chip{position:absolute;transform:translate(-50%,-100%);font-size:15.5px;font-weight:700;color:var(--f);font-variant-numeric:tabular-nums;white-space:nowrap;text-shadow:0 1px 0 light-dark(rgba(255,255,255,.6),rgba(0,0,0,.35))}
+.qw-chart-chip{position:absolute;transform:translate(-50%,-100%);font-size:16.5px;font-weight:700;color:var(--f);font-variant-numeric:tabular-nums;white-space:nowrap;text-shadow:0 1px 0 light-dark(rgba(255,255,255,.6),rgba(0,0,0,.35))}
 .qw-alert{display:flex;flex-direction:column;gap:3px;padding:9px 12px;border-radius:12px;border:1px solid var(--bd);border-left:3px solid var(--alert-c,#f59e0b);
   background:linear-gradient(150deg,color-mix(in srgb,var(--alert-c,#f59e0b) 12%,transparent),transparent 60%);
   box-shadow:2px 3px 8px var(--sh-dark),inset 0 1px 0 light-dark(rgba(255,255,255,.75),rgba(255,255,255,.06))}
-.qw-alert-head{font-size:12.5px;font-weight:700;color:var(--f)}
-.qw-alert-body{font-size:11.5px;color:var(--m);line-height:1.55}
-.qw-empty{font-size:12px;color:var(--s)}
-.qw-foot{display:flex;align-items:center;justify-content:space-between;gap:10px;padding-top:9px;border-top:1px dashed var(--bd);font-size:11px;color:var(--s)}
+.qw-alert-head{font-size:13.5px;font-weight:700;color:var(--f)}
+.qw-alert-body{font-size:12.5px;color:var(--m);line-height:1.55}
+.qw-empty{font-size:13px;color:var(--s)}
+.qw-foot{display:flex;align-items:center;justify-content:space-between;gap:10px;padding-top:9px;border-top:1px dashed var(--bd);font-size:12px;color:var(--s)}
 .qw-foot a{color:var(--sky-deep);text-decoration:none;font-weight:700}
 .qw-foot a:hover{color:var(--orange);text-decoration:underline}
 `;

diff --git a/src/client/sidebar-widget.tsx b/src/client/sidebar-widget.tsx
@@ -223,8 +223,8 @@ function WideView({ bundle, status, error, refreshing, onRefresh, t }: {
       {now !== undefined && (
         <div style={row}>
           <IconTile code={now.icon} size={24} tileSize={38} uid="now" />
-          <span style={{ display: 'flex', alignItems: 'flex-start', gap: 1, fontSize: 24, fontWeight: 800, lineHeight: 1, letterSpacing: '-.4px', ...num }}>
-            <span>{round1(now.temp)}</span><span style={{ fontSize: 11, fontWeight: 800, color: orange, marginTop: 1.5 }}>℃</span>
+          <span style={{ display: 'flex', alignItems: 'flex-start', gap: 1, fontSize: 22, fontWeight: 800, lineHeight: 1, letterSpacing: '-.4px', ...num }}>
+            <span>{round1(now.temp)}</span><span style={{ fontSize: 10, fontWeight: 800, color: orange, marginTop: 1.5 }}>℃</span>
           </span>
           <span style={{ color: muted, fontSize: 12 }}>{now.text}</span>
           <span style={{ marginLeft: 'auto', display: 'flex', flexDirection: 'column', gap: 2, fontSize: 10.5, textAlign: 'right', color: muted, lineHeight: 1.4 }}>

diff --git a/lib/client.js b/lib/client.js
@@ -1288,7 +1288,7 @@ window.__ModuleLoader__.load({
 									display: "flex",
 									alignItems: "flex-start",
 									gap: 1,
-									fontSize: 24,
+									fontSize: 22,
 									fontWeight: 800,
 									lineHeight: 1,
 									letterSpacing: "-.4px",
@@ -1296,7 +1296,7 @@ window.__ModuleLoader__.load({
 								},
 								children: [/* @__PURE__ */ (0, react_jsx_runtime.jsx)("span", { children: round1(now.temp) }), /* @__PURE__ */ (0, react_jsx_runtime.jsx)("span", {
 									style: {
-										fontSize: 11,
+										fontSize: 10,
 										fontWeight: 800,
 										color: orange,
 										marginTop: 1.5
